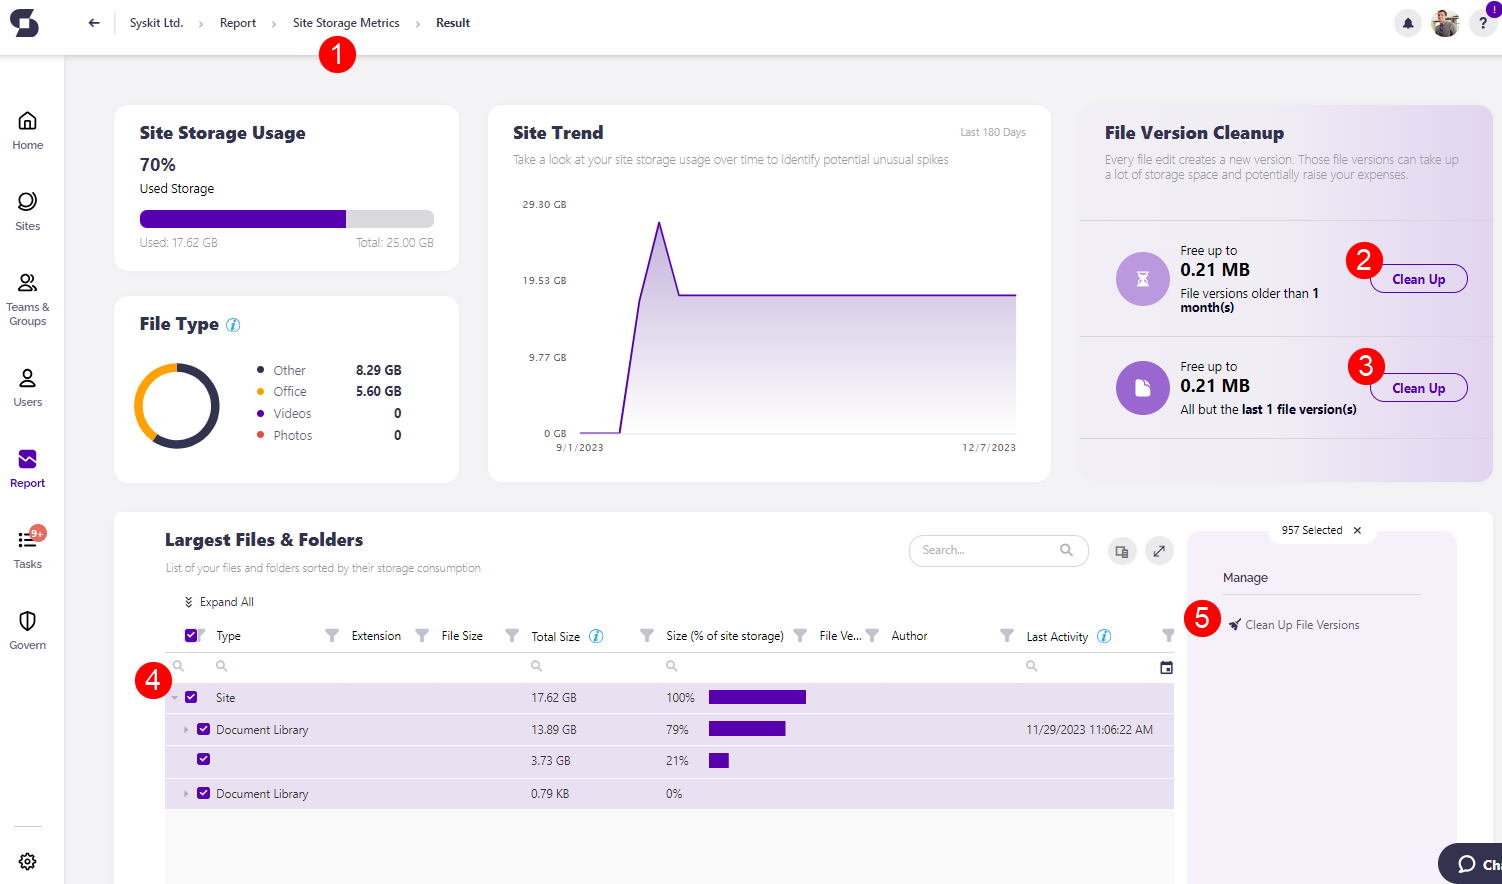
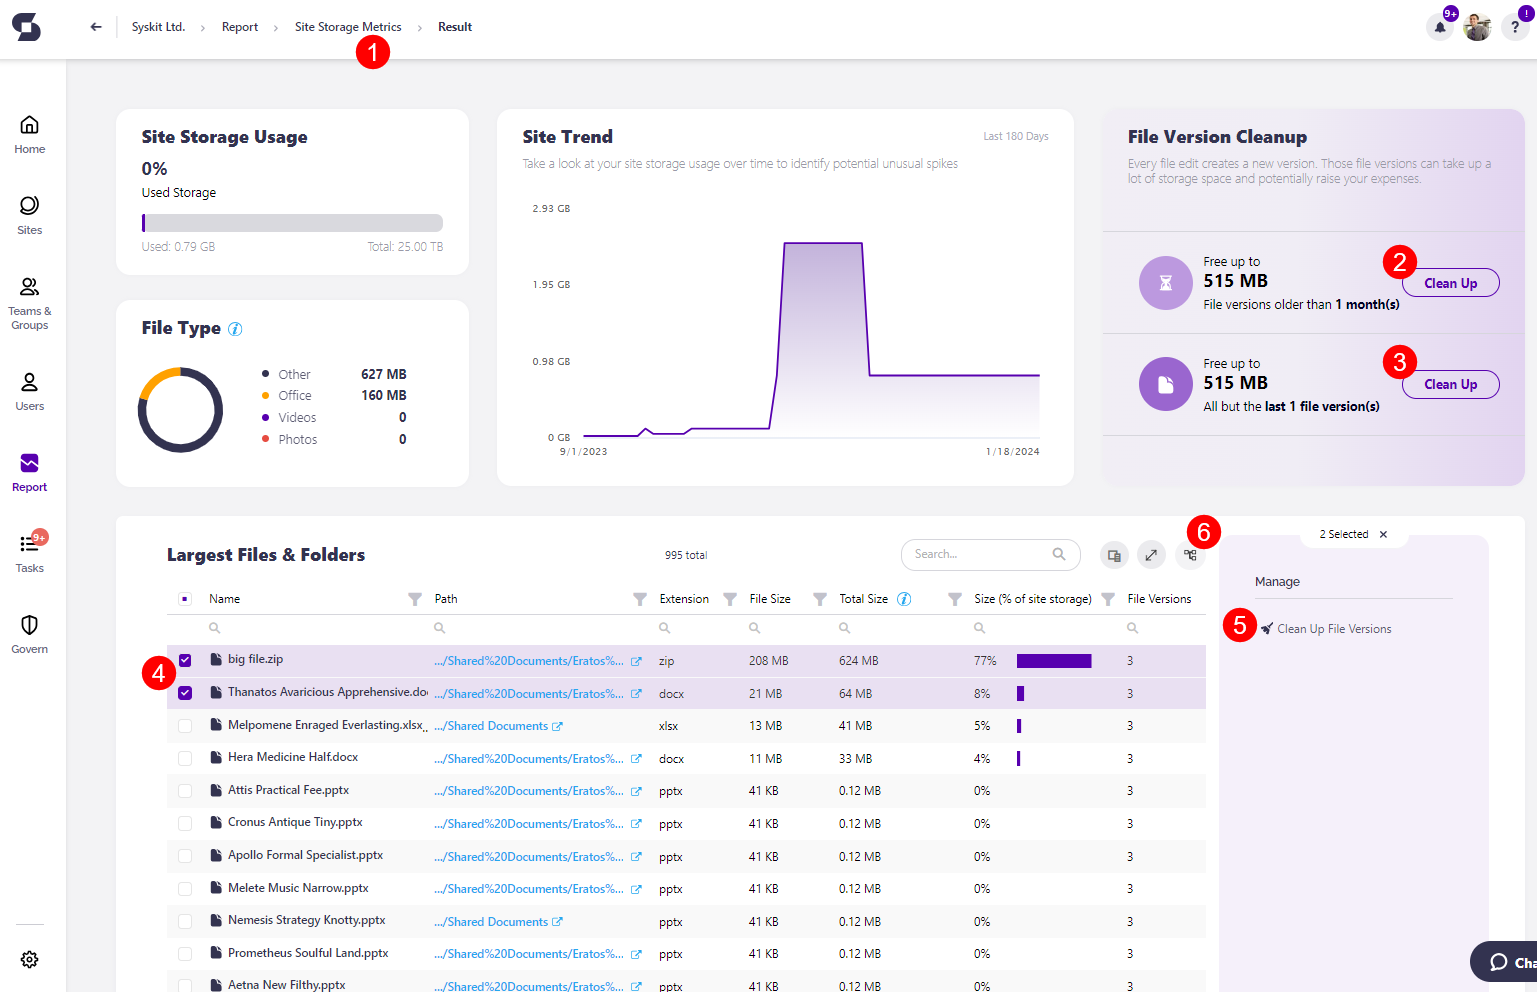
view filter update

diff --git a/reporting/storage-management/storage-reports.md b/reporting/storage-management/storage-reports.md
@@ -72,19 +72,35 @@ Once the site report is successfully generated, the following information is ava
     * **Other**: any extensions not categorized in one of the above groups
 * **The File Version Cleanup tile** shows the amount of space you can free up by cleaning up the outdated versions of the site. 
 
-The following data will be displayed in the columns:
+The default view for your Site Storage Metrics report is set as Files Only. It shows the list of all files on your site with the following displayed in the columns:
+
+* **Name**; the name of the file.
+   * Clicking the name opens the File Storage Details report.
+* **Path**; shows the path this file follows in your workspace.
+* **Extension**; the type of extension the file has.
+* **File Size**; shows the size of the specific file.
+* **Total Size**; shows the amount of storage taken by all versions of the file.
+* **Size (% of the site storage)**; shows the percentage of storage used by the file.
+* **File Versions**; shows the versions of the files.
+* **Author**; shows the author of the file.
+* **Last Activity**; shows the date the last activity on the file happened.
+
+**Selecting one or more files** provides the **action to Clean Up File Versions**, located on the right side of the screen under the **Manage section**. 
+
+To change your report view, click the *Sort by* button located in the top right corner of the report. 
+
+Selecting the Site Structure view shows the following information:
 
 * **Name**; the name of the site.
    * Clicking the name opens the Site Details page of the selected workspaces.
    * Clicking the arrow symbol next to the name expands the site details to show all content included in the site.
 * **Type**; shows what type of site or content it is.
 * **Extension**; shows any extensions to the site or content.
-* **Size**; shows the size of the site or content.
-* **Size (All Versions)**; shows the amount of storage taken by the site or specific content within the workspace.
+* **File Size**; shows the size of the specific file.
+* **Total Size**; shows the amount of storage taken by the site or specific content within the workspace.
 * **Size (% of the site storage)**; shows the percentage of storage used by the site or content.
 * **File Versions**; shows the versions of the files.
 * **Author**; shows the author of the content.
-* **Storage Limit**; show the storage limit for the site.
 * **Last Activity**; shows the date the last activity on the site or content happened.
 
 **Selecting the site** or one or more of the files included in the site provides the **action to Clean Up File Versions**, located on the right side of the screen under the **Manage section**. 

diff --git a/reporting/storage-management/storage-management.md b/reporting/storage-management/storage-management.md
@@ -99,7 +99,8 @@ There are three different ways to clean up the storage space across your sites.
    * **Choose to Clean Up all but the last X file version(s) (3)**
      * The exact numbers shown here can be customized in your Syskit Point settings; for more details on this, take a look at the [Configure Storage Management article](../../configuration/configure-storage-management.md)
 
-  * **Selecting the site (4)**, or the files included in the site and clicking the **Clean Up File Versions button (5)**, located on the right side of the screen under the **Manage section**. 
+  * **Selecting the file (4)**, or the site itself, and clicking the **Clean Up File Versions button (5)**, located on the right side of the screen under the **Manage section**.
+    * The default setting for the Site Metrics report shows a list of all files included in the site. You can change how you view the Site Metrics report by clicking the **Sort by button (6)**, located on the top right of the report, and selecting between **Site Structure or Files Only**
 
 ![Site Storage Metrics Report- Clean Up File Versions](../../.gitbook/assets/optimize-storage-site-storage-metrics-report-cleanup.png)
 
